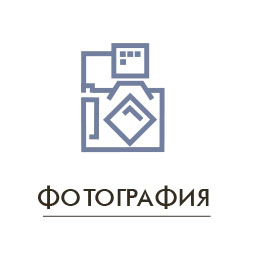
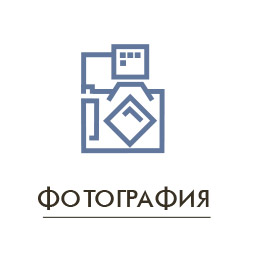
Added new hover effect

Changed region(s): [[0.302, 0.1647, 0.6314, 0.6039], [0.1373, 0.7137, 0.8235, 0.8784]]

diff --git a/index.html b/index.html
@@ -39,17 +39,21 @@
                <div class="small_img">
                     <img src="img/camera.jpg" class="img-fluid">
                </div>               
-               <div class="small_img hover_img">
+               <div class="small_img">
                     <a href="#">
-                        <img src="img/aident.jpg" class="img-fluid">
+                        <img src="img/aident.jpg" class="img-fluid"
+                             onmouseover="this.src='img/aident2.jpg';"
+                             onmouseout="this.src='img/aident.jpg';">
                     </a>
                     
                </div>
             </div>
             <div class="col-md-3">
-                <div class="small_img hover_img">
+                <div class="small_img">
                     <a href="#">
-                        <img src="img/photography.jpg" class="img-fluid">
+                        <img src="img/photography.jpg" class="img-fluid"
+                             onmouseover="this.src='img/photography2.jpg';"
+                             onmouseout="this.src='img/photography.jpg';">
                     </a>
                     
                 </div>
@@ -77,17 +81,21 @@
                 <div class="small_img">
                     <img src="img/painting_small.jpg" class="img-fluid">
                 </div>
-                <div class="small_img hover_img">
+                <div class="small_img">
                     <a href="#">
-                        <img src="img/graphic_text.jpg" class="img-fluid">
+                        <img src="img/graphic_text.jpg" class="img-fluid"
+                             onmouseover="this.src='img/graphic_text2.jpg';"
+                             onmouseout="this.src='img/graphic_text.jpg';">
                     </a>
                     
                 </div>
             </div>
             <div class="col-md-3">
-                <div class="small_img hover_img">
+                <div class="small_img">
                     <a href="#">
-                        <img src="img/painting.jpg" class="img-fluid">
+                        <img src="img/painting.jpg" class="img-fluid"
+                             onmouseover="this.src='img/painting2.jpg';"
+                             onmouseout="this.src='img/painting.jpg';">
                     </a>
                     
                 </div>
